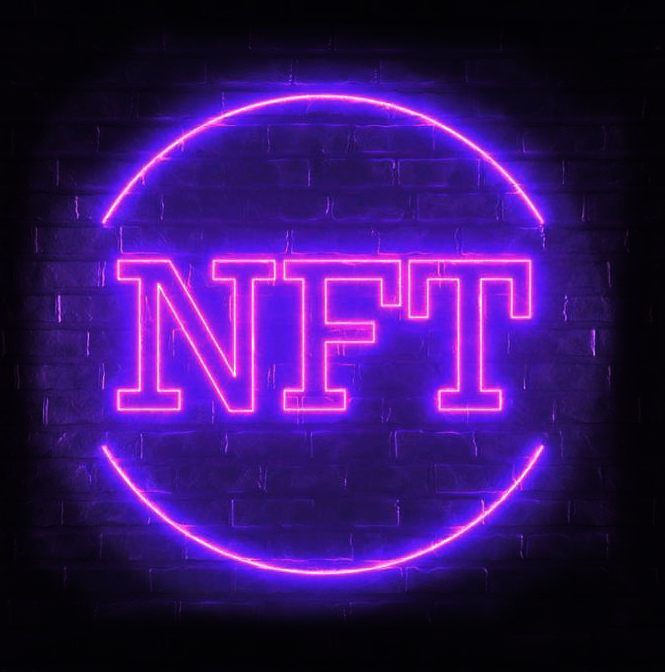
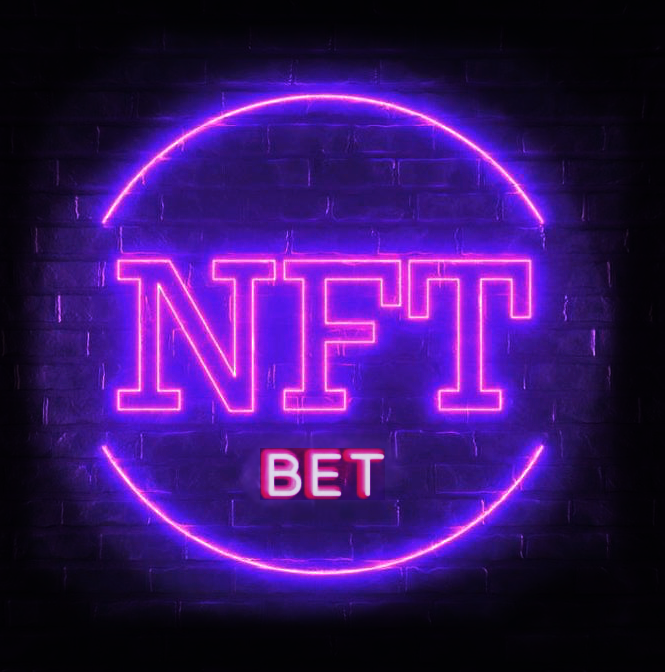
home page ui done

Changed region(s): [[0.3609, 0.6562, 0.6015, 0.75]]

diff --git a/client/src/pages/home/Home.js b/client/src/pages/home/Home.js
@@ -2,6 +2,7 @@ import React, { Fragment } from "react";
 import freeplay from "../../assets/homePage/freeplay.png";
 import token from "../../assets/homePage/token.png";
 import nftStaking from "../../assets/homePage/nftStaking.png";
+import bet from "../../assets/homePage/bet.jpg"
 import nft from "../../assets/homePage/nft.jpeg"
 import { Container, Button, Row, Col } from "react-bootstrap";
 
@@ -29,13 +30,12 @@ function Home(props) {
           </div>
         </div>
       </div>
-      <hr />
 
 
       <div className="container-fluid modesContainer d-flex flex-column mb-4">
         <div className="modesContentHeading text-center mt-4 mb-4">
           <h1 style={{color: "#d1996d"}}>Different Game Modes to Play</h1>
-          <p className="text-light ">Buy NFTs using Hess tokens which you won from your friends or bought with ethers. These NFTs feature the best chess players in India and the world and are all handmade with great details. And it is a pride to have them.</p>
+          <h5 className="text-light ">Play now an interactive and fun P2P chess  on your browser with your friends, while collecting NFTs that you give rewards backed by crypto-assets returns won from your progress in the Hess universe!</h5>
         </div>
         <div className="row justify-content-center">
           <div className="scene col-md-4 modesColumns transAll">
@@ -44,11 +44,11 @@ function Home(props) {
                 <img src={freeplay} alt="" srcset="" />
               </div>
               <div className="item back p-3">
-                <h5 className="text-light">
+                <h6 className="text-info">
                   Enjoy a simple game of chess with your friend. Just add a
                   username or a wallet address and play with your friends3
                   anywhere in the world with a connection of internet.
-                </h5>
+                </h6>
               </div>
             </div>
           </div>
@@ -58,11 +58,11 @@ function Home(props) {
                 <img src={token} alt="" srcset="" />
               </div>
               <div className="item back p-3">
-                <h5 className="text-light">
+                <h6 className="text-info">
                   Use Native Hess tokens and bet with your friends on who wins
                   the classic game of Chess betting an equal amount of tokens and reflect your 
                   hard tested strategies on the game Leaderboard.
-                </h5>
+                </h6>
               </div>
             </div>
           </div>
@@ -72,59 +72,42 @@ function Home(props) {
                 <img src={nftStaking} alt="" srcset="" />
               </div>
               <div className="item back p-3">
-                <h5 className="text-light">
+                <h6 className="text-info">
                   Give the king avatar of your NFT and have a real experience of
                   betting your assets while playing the classic game with your
                   friend and have a chance winning your friends NFT.
-                </h5>
+                </h6>
               </div>
             </div>
           </div>
         </div>
       </div>
-      <hr />
 
 
       <div className="container-fluid nftContainer">
-        <div className="nftcontent">
+        <div className="nftContent">
           <div className="row">
-            <div className="col nftColumns nftContentHeading d-flex flex-column justify-content-center px-4">
+            <div className="col nftColumns nftContentImg d-flex justify-content-center">
+              <img src={nft} style={{textAlign: "center"}} alt="" srcset="" />
+            </div>
+            <div className="col-md-6 nftColumns nftContentHeading d-flex flex-column justify-content-center px-4">
               <h1 style={{color: "#d1996d"}}>Nft Marketplace</h1>
               <p className="text-light ">Buy NFTs using Hess tokens which you won from your friends or bought with ethers. These NFTs feature the best chess players in India and the world and are all handmade with great details. And it is a pride to have them.</p>
             </div>
-            <div className="col nftColumns nftContentImg d-flex justify-content-center">
-              <img src={nft} style={{width: "40%", textAlign: "center"}} alt="" srcset="" />
-            </div>
           </div>
         </div>
       </div>
-      <hr />
+
+
       <div className="container-fluid stakeContainer">
         <div className="stakeContent">
           <div className="row">
-            <div className="col stakeColumns stakeContentHeading">
-              <h1 style={{color: "#d1996d"}}>Stake and Earn</h1>
+            <div className="col-md-6 stakeColumns stakeContentHeading">
+              <h1 style={{color: "#d1996d"}}>Bet on your Skills</h1>
+              <p className="text-light ">Play with your friends while betting on your assets and get a chance to buy nfts of most popular players worldwide. Wanna cash-out you can do that anytime you want with an ingame store for real Ethers.</p>
             </div>
             <div className="col stakeColumns stakeContentImg d-flex justify-content-center">
-              ddsg
-            </div>
-          </div>
-        </div>
-      </div>
-      <hr />
-
-
-      <div className="container-fluid whyUsContainer">
-        <div className="whyUsContent">
-          <div className="whyUsTitle d-flex justify-content-center">
-            <h1 style={{color: "#d1996d"}}>Why Us</h1>
-          </div>
-          <div className="row">
-            <div className="col whyUsColumns whyUsContentHeading">
-              <h1 >Decentralized</h1>
-            </div>
-            <div className="col d-flex justify-content-center whyUsColumns whyUsContentImg">
-              ddsg
+            <img src={bet} style={{textAlign: "center"}} alt="" srcset="" />
             </div>
           </div>
         </div>

diff --git a/client/src/pages/home/Home.css b/client/src/pages/home/Home.css
@@ -103,17 +103,31 @@
 }
 
 /* Nft MarketPlace  */
+.nftContent {
+  padding: 3rem 0;
+}
 
 .nftContentHeading h1 {
   color: #fff;
   margin-bottom: 2rem;
 }
 
+.nftContentImg img {
+  width: 40%;
+}
+
 /* Stake Section  */
+.stakeContent{
+  padding: 3rem 0;
+}
 
 .stakeContentHeading h1 {
   color: #fff;
   margin-bottom: 2rem;
+}
+
+.stakeContentImg img {
+  width: 40%;
 }
 
 /* WhyUs Container */
@@ -141,5 +155,23 @@
   }
   .nftContainer, .stakeContainer, .tokenContainer, .whyUsContainer {
     padding: 0 2rem;
-  } 
+  }
+  .stakeContentImg img {
+    width: 60%;
+  }
+  .nftContentImg img {
+    width: 60%;
+  }
+}
+
+@media only screen and (max-width: 768px) {
+  .stakeContentImg img {
+    width: 60%;
+  }
+  .nftContentImg img {
+    width: 50%;
+  }
+  .nftContentImg, .stakeContentImg {
+    margin: 3rem 0 ;
+  }
 }

diff --git a/client/src/layouts/header/Header.js b/client/src/layouts/header/Header.js
@@ -84,7 +84,7 @@ function Header(props) {
             />{' '}
             polyess
           </Navbar.Brand>
-          <Navbar.Toggle aria-controls="basic-navbar-nav" className="justify-content-center align-items-center text-center" />
+          <Navbar.Toggle aria-controls="basic-navbar-nav" className="justify-content-center align-items-center text-center bg-info" />
           <Navbar.Collapse id="basic-navbar-nav" className="justify-content-end">
             <Nav className="justify-content-center">
               <Nav.Link className="hover-underline-animation mx-3 text-center" href="/">Home</Nav.Link>

diff --git a/client/src/pages/home/tempCodeRunnerFile.js b/client/src/pages/home/tempCodeRunnerFile.js
@@ -1,0 +1,1 @@
+Play now an interactive and fun P2P chess  on your browser with your friends, while collecting NFTs that you give rewards backed by crypto-assets returns won from your progress in the Hess universe!
